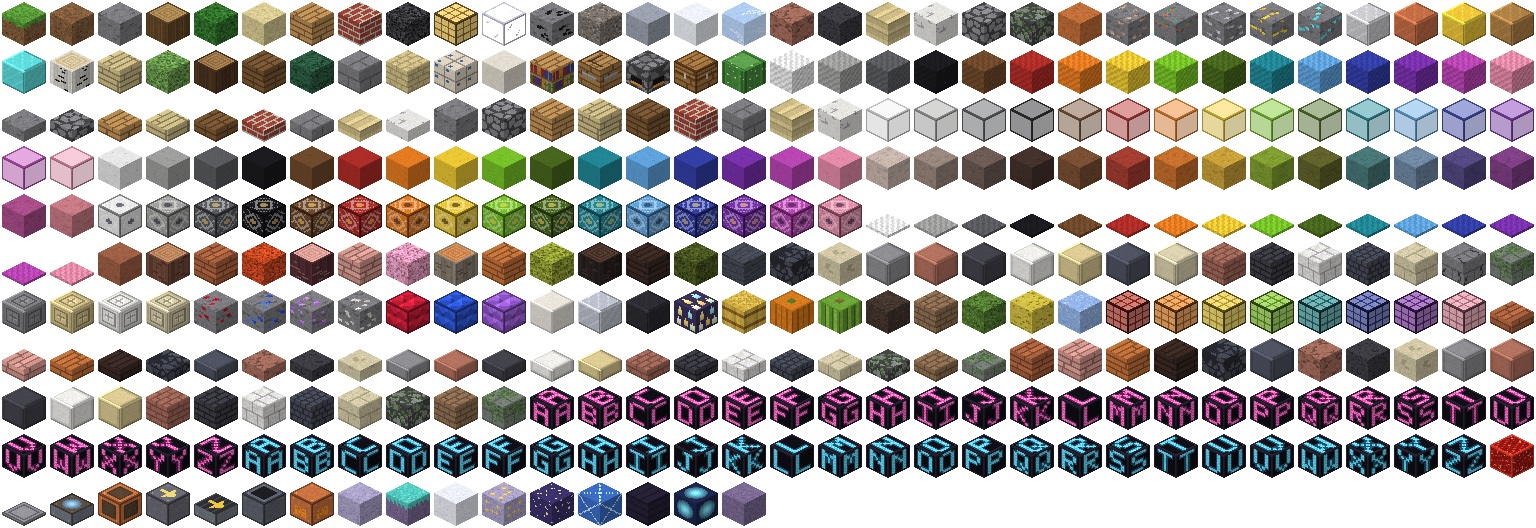
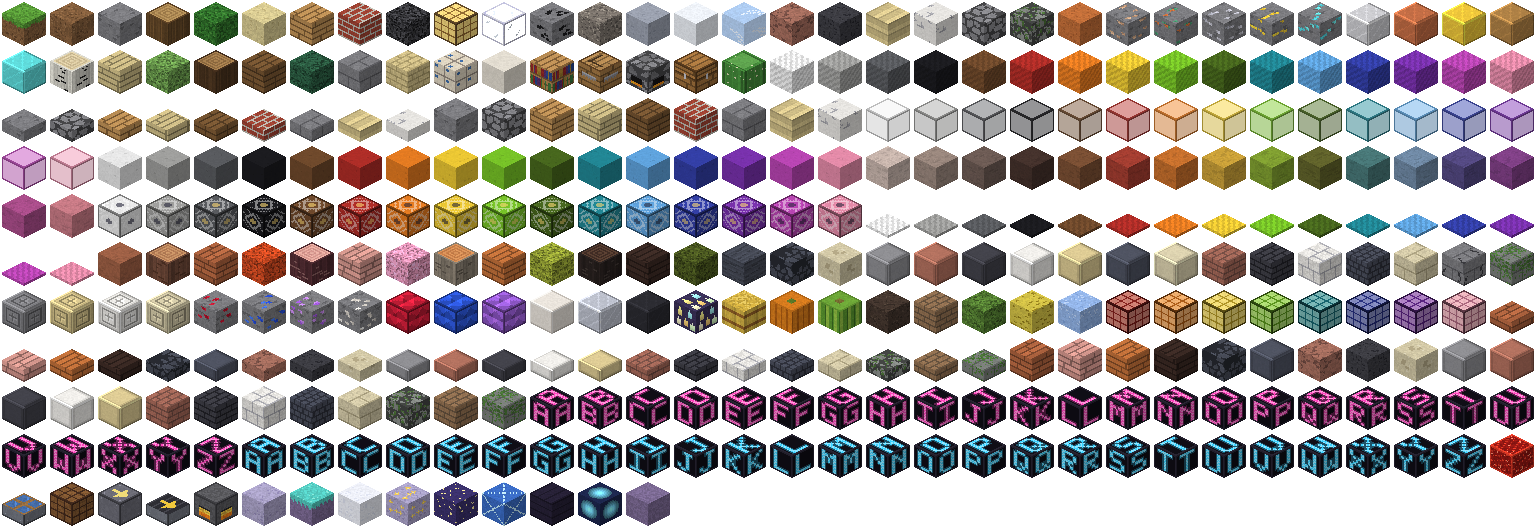
More machines in the blocky look: lamp, collector, smelter, plate, sensor
- Powered lamp: glowing cells in a dark frame (dim amber off, warm light on).
- Collector: a funnel, a wide bowl on top narrowing to a spout.
- Auto-smelter: a dark stone furnace with a glowing fire window.
- Pressure plate: a thin stone plate a little smaller than the block.
- Light sensor: blue glass panes in a wooden frame.
Checked after the change: harvester, storage tower, smelter, plate door.

Claude-Session: https://claude.ai/code/session_016rzuTQKFoJD2sscWN2nTLT

Changed region(s): [[0.0, 0.9091, 0.5, 1.0]]

diff --git a/textures.py b/textures.py
@@ -1633,7 +1633,7 @@ def power_cell_top(rng):
 
 
 def pressure_plate(rng):
-    img = _plate((150, 150, 156), rivets=False)(rng)
+    img = _noise(rng, (150, 150, 154), 0.06).convert("RGBA")
     for i in range(2, 14):
         for x, y in ((i, 2), (i, 13), (2, i), (13, i)):
             img.putpixel((x, y), (100, 100, 108, 255))
@@ -1641,22 +1641,30 @@ def pressure_plate(rng):
 
 
 def light_sensor(rng):
-    img = _plate((90, 80, 70))(rng)
+    """Blue glass panes in a wooden frame, catching the daylight."""
+    img = _blank()
     for x in range(TILE):
         for y in range(TILE):
-            d = ((x - 7.5) ** 2 + (y - 7.5) ** 2) ** 0.5
-            if d < 5:
-                img.putpixel((x, y), _shade((150, 200, 240), 1.2 - d / 8) + (255,))
+            if x in (0, 15) or y in (0, 15) or x in (7, 8) or y in (7, 8):
+                _px(img, x, y, _shade((150, 110, 66), 1 + rng.uniform(-0.1, 0.1)))
+            else:
+                shine = 1.25 if (x + y) % 9 == 0 else 1.0
+                _px(img, x, y, _shade((70, 110, 170), shine + rng.uniform(-0.08, 0.08)))
     return img
 
 
 def powered_lamp(on):
+    """A lamp of glowing cells in a dark frame: dim amber when off, bright warm light when on."""
     def gen(rng):
-        img = _plate(COPPER)(rng)
-        for x in range(3, 13):
-            for y in range(3, 13):
-                c = (255, 214, 120) if on else (90, 70, 50)
-                img.putpixel((x, y), _shade(c, 1 + rng.uniform(-0.08, 0.08) - (0.15 if (x in (3, 12) or y in (3, 12)) else 0)) + (255,))
+        img = _blank()
+        frame = (70, 44, 30) if not on else (120, 74, 40)
+        for x in range(TILE):
+            for y in range(TILE):
+                if x in (0, 15) or y in (0, 15) or x in (5, 10) or y in (5, 10):
+                    _px(img, x, y, _shade(frame, 1 + rng.uniform(-0.1, 0.1)))
+                else:
+                    c = (255, 222, 130) if on else (130, 88, 50)
+                    _px(img, x, y, _shade(c, 1 + rng.uniform(-0.12, 0.12)))
         return img
     return gen
 
@@ -1733,11 +1741,22 @@ def collector_top(rng):
     return img
 
 
+def _dark_stone(rng):
+    img = _noise(rng, (92, 92, 96), 0.12).convert("RGBA")
+    for i in range(TILE):
+        for x, y in ((i, 0), (i, 15), (0, i), (15, i)):
+            img.putpixel((x, y), (64, 64, 68, 255))
+    return img
+
+
 def smelter_front(rng):
-    img = _plate(COPPER)(rng)
+    """A stone furnace face with a glowing fire window."""
+    img = _dark_stone(rng)
     for x in range(4, 12):
-        for y in range(7, 13):
-            img.putpixel((x, y), _shade((250, 140, 40), 1 + rng.uniform(-0.2, 0.2)) + (255,))
+        for y in range(8, 14):
+            img.putpixel((x, y), _shade((250, 130, 30) if y > 10 else (255, 200, 70), 1 + rng.uniform(-0.2, 0.2)) + (255,))
+    for x in range(4, 12):
+        img.putpixel((x, 7), (40, 40, 44, 255))
     return img
 
 
@@ -1809,7 +1828,7 @@ EXTRA_GENERATORS.update({
     "light_sensor": light_sensor, "machine_side": _plate(), "machine_bottom": _plate((80, 82, 90), rivets=False),
     "powered_lamp_off": powered_lamp(False), "powered_lamp_on": powered_lamp(True),
     "gate_side": smooth_stone, "collector_top": collector_top, "collector_side": _plate((96, 100, 110)),
-    "smelter_top": _plate(COPPER), "smelter_front": smelter_front,
+    "smelter_top": _dark_stone, "smelter_front": smelter_front,
 })
 for _kind in GATE_SYMBOLS:
     for _f in range(4):

diff --git a/blocks.py b/blocks.py
@@ -370,7 +370,7 @@ _logic(1703, "switch", ("switch_on", "switch_side", "switch_side"), "switch", sh
 _logic(1704, "push button", ("button_top", "button_side", "button_side"), "button", shape="button", solid=False,
        hardness=0.6)
 _logic(1705, "power cell", ("power_cell_top", "power_cell", "power_cell_top"), "cell", hardness=1.5, emit=6)
-_logic(1706, "pressure plate", "pressure_plate", "plate", shape=CARPET, solid=False, hardness=0.5)
+_logic(1706, "pressure plate", "pressure_plate", "plate", shape="plate", solid=False, hardness=0.5)
 _logic(1707, "light sensor", ("light_sensor", "machine_side", "machine_side"), "sensor", shape=SLAB, hardness=0.8)
 _logic(1708, "powered lamp", "powered_lamp_off", "lamp", on=False, hardness=0.4)
 _logic(1709, "powered lamp", "powered_lamp_on", "lamp", on=True, creative=False, drop=1708, emit=15, hardness=0.4)
@@ -389,7 +389,7 @@ for _f in range(6):
 for _f in range(4):
     _logic(1742 + _f, "conveyor belt", (f"conveyor_{_f}", "machine_side", "machine_bottom"), "conveyor", shape=SLAB,
            facing=_f, creative=_f == 0, drop=1742, hardness=0.8)
-_logic(1746, "collector", ("collector_top", "collector_side", "machine_bottom"), "collector", container=True,
+_logic(1746, "collector", ("collector_top", "collector_side", "machine_bottom"), "collector", container=True, shape="funnel",
        hardness=1.5)
 _logic(1747, "auto-smelter", ("smelter_top", "smelter_front", "machine_bottom"), "smelter", container=True,
        hardness=2.0)
@@ -444,7 +444,7 @@ NON_SOLID = {0} | {i for i, d in BLOCK_DEFS.items() if not d["solid"]}
 LIGHT_EMIT = {i: d["emit"] for i, d in BLOCK_DEFS.items() if d["emit"]}
 UNBREAKABLE = {i for i, d in BLOCK_DEFS.items() if d["hardness"] < 0}
 LEAVES = {i for i, d in BLOCK_DEFS.items() if d.get("leaves")}
-PLANTS_NEED_SOIL = {i for i, d in BLOCK_DEFS.items() if d["shape"] in (CROSS, CARPET, "wire", "lever", "button", "track")}   # fall without ground
+PLANTS_NEED_SOIL = {i for i, d in BLOCK_DEFS.items() if d["shape"] in (CROSS, CARPET, "wire", "lever", "button", "track", "plate")}   # fall without ground
 SHAPED = {i for i, d in BLOCK_DEFS.items() if d["shape"] != CUBE}
 
 
